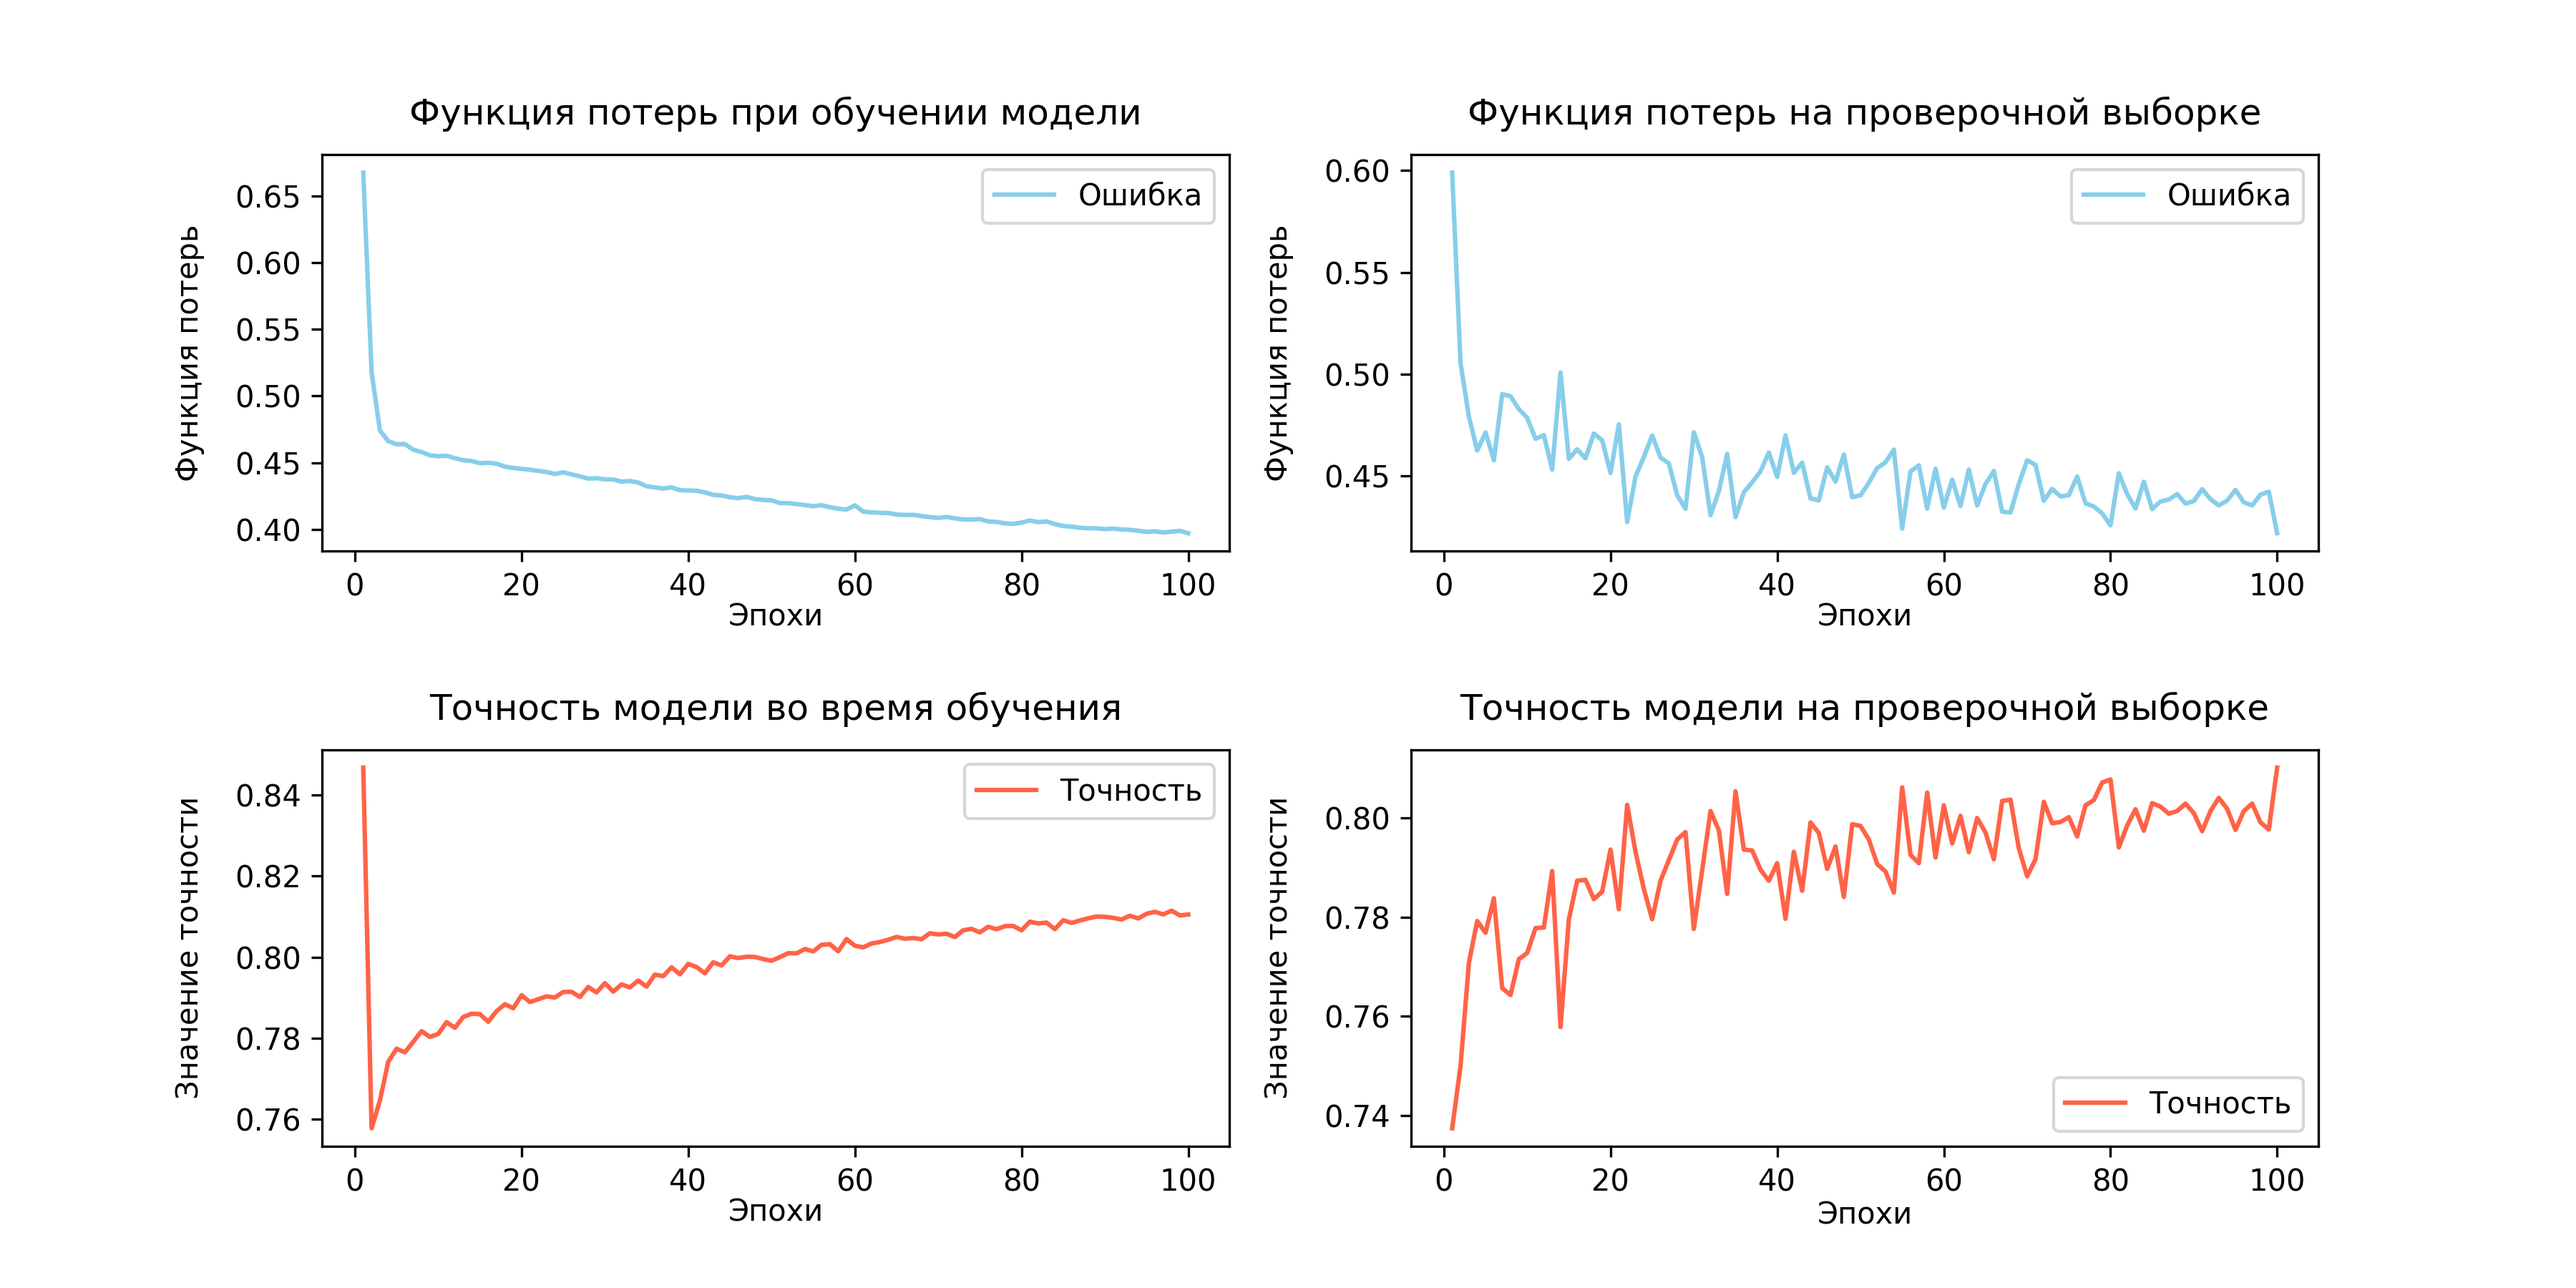
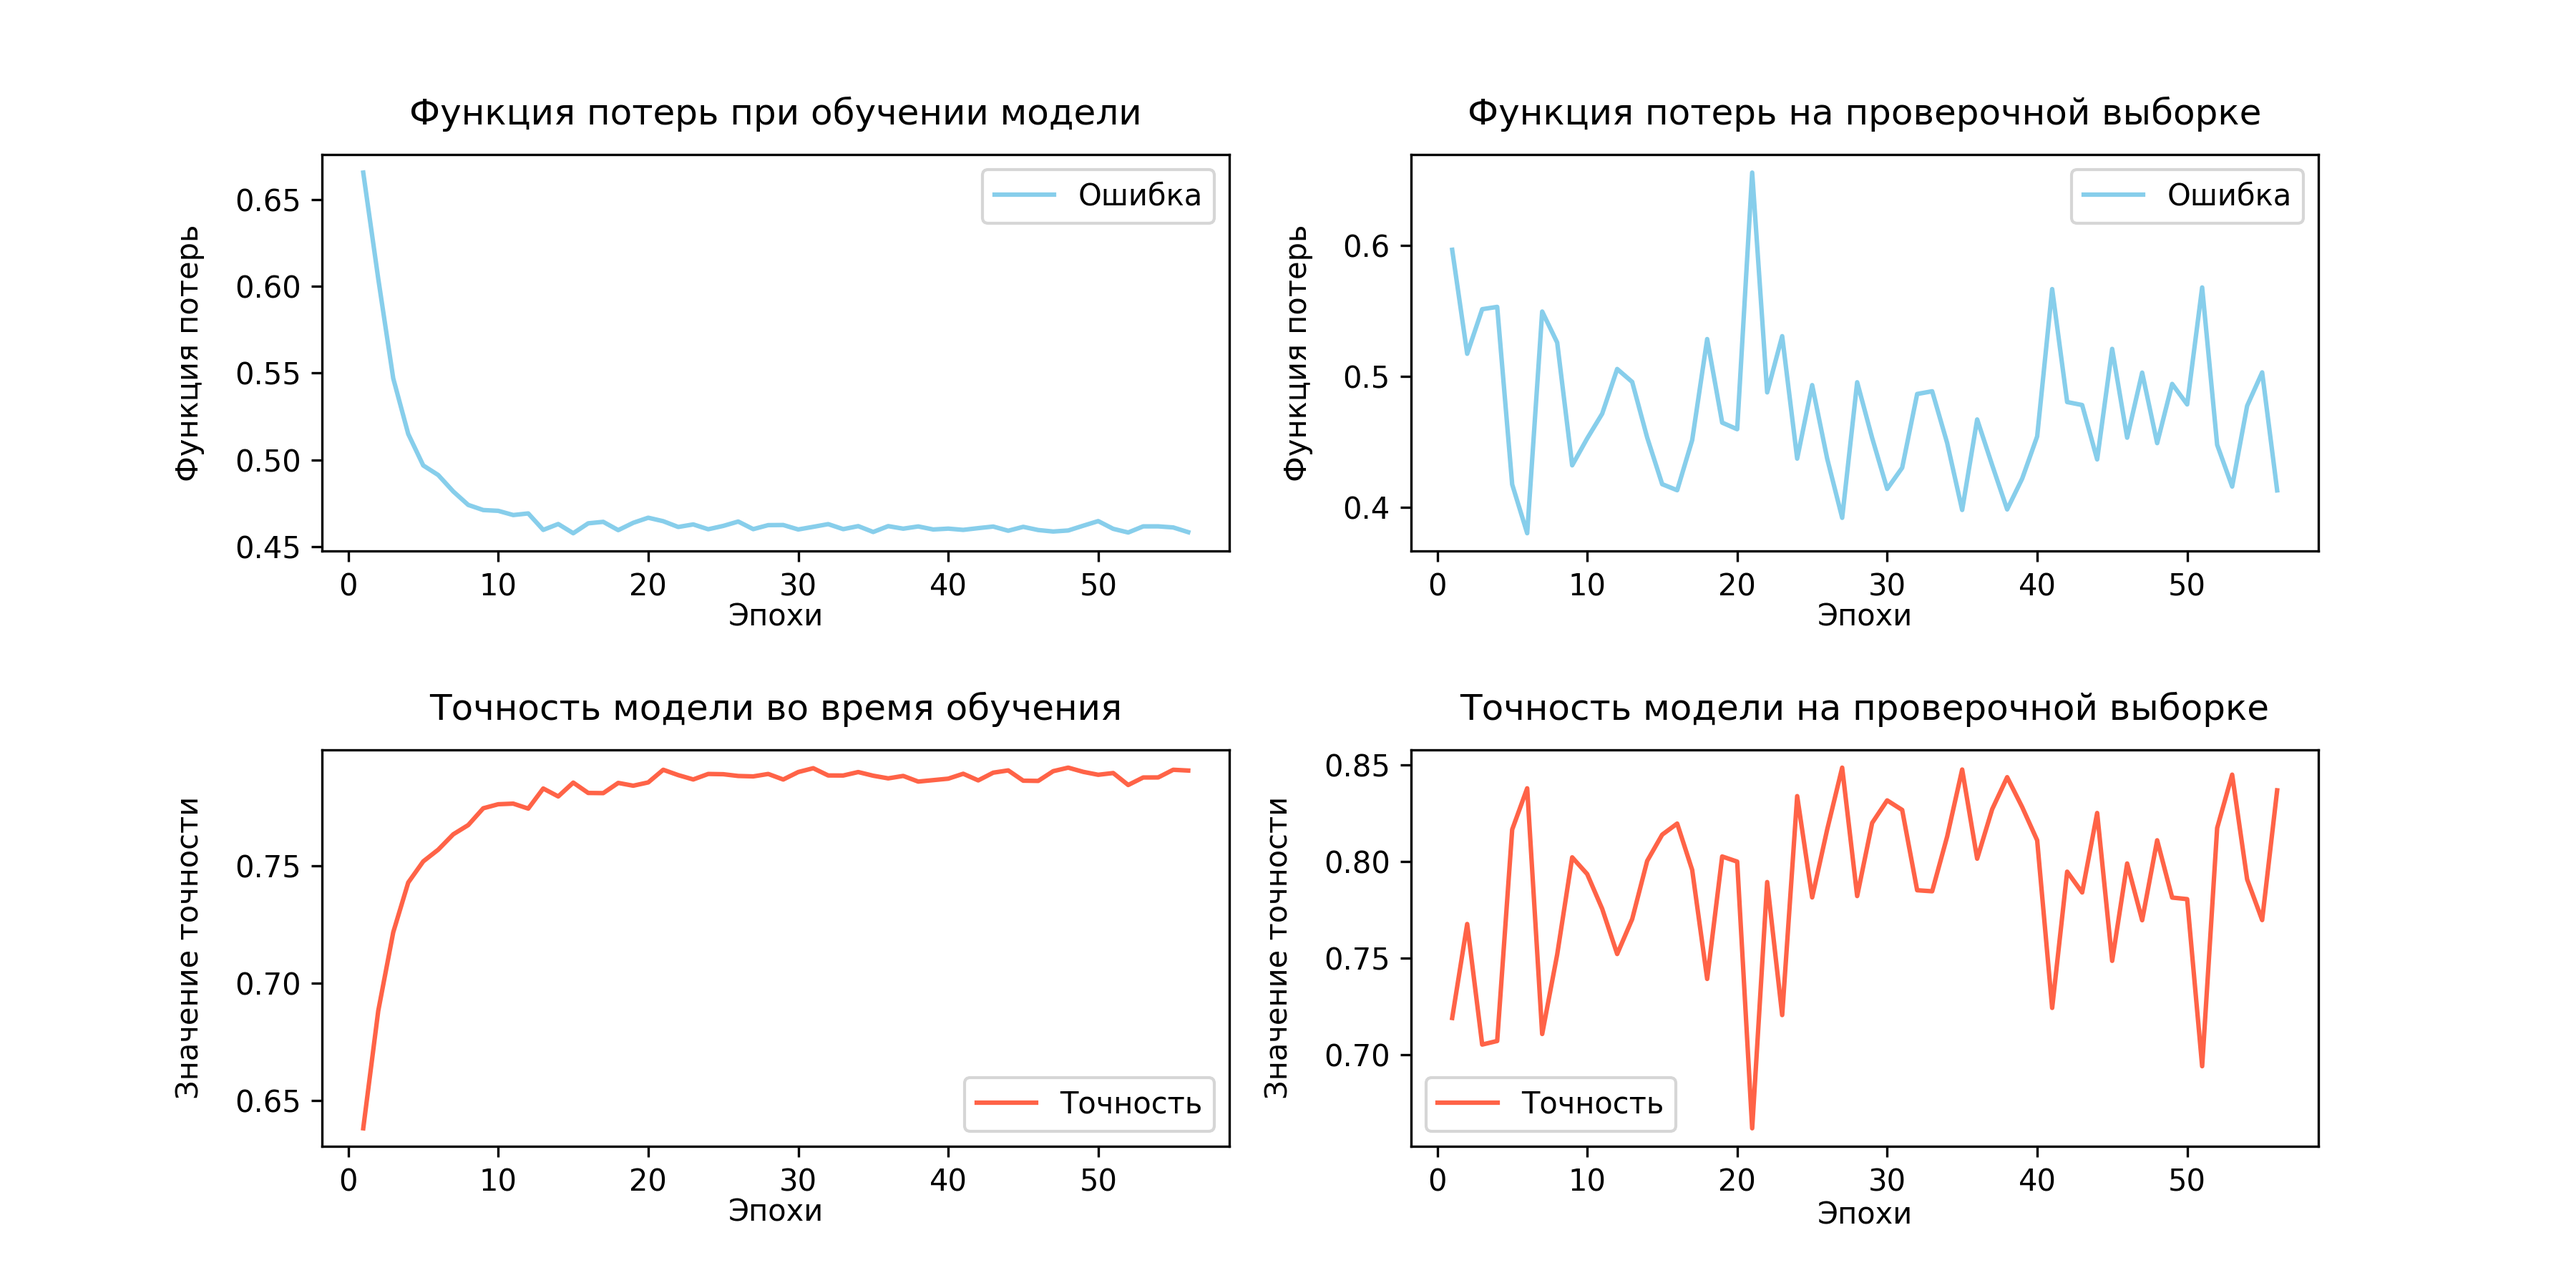
small refactor..

diff --git a/utils/callbacks.py b/utils/callbacks.py
@@ -1,25 +1,30 @@
 from keras.callbacks import EarlyStopping, ReduceLROnPlateau
 
-early_stopping = EarlyStopping(
-    monitor="val_loss",
-    min_delta=0,
-    patience=50,
-    verbose=1,
-    mode="auto",
-    baseline=None,
-    restore_best_weights=True,
-    start_from_epoch=0,
-)
 
-reduce_lr = ReduceLROnPlateau(
-    monitor="val_loss",
-    factor=0.9,
-    patience=20,
-    verbose=1,
-    mode="auto",
-    min_delta=0.0001,
-    cooldown=0,
-    min_lr=1e-6,
-)
+def early_stopping() -> EarlyStopping:
+    return EarlyStopping(
+        monitor="val_loss",
+        min_delta=0,
+        patience=50,
+        verbose=1,
+        mode="auto",
+        baseline=None,
+        restore_best_weights=True,
+        start_from_epoch=0,
+    )
+
+
+def reduce_lr() -> ReduceLROnPlateau:
+    return ReduceLROnPlateau(
+        monitor="val_loss",
+        factor=0.9,
+        patience=20,
+        verbose=1,
+        mode="auto",
+        min_delta=0.0001,
+        cooldown=0,
+        min_lr=1e-6,
+    )
+
 
 __all__ = ["early_stopping", "reduce_lr"]

diff --git a/utils/models.py b/utils/models.py
@@ -119,16 +119,16 @@ def create_ensemble_with_ple(
 ) -> Model:
     input = Input(shape=(n_features,))
 
-    # x = PiecewiseLinearTrainableEmbeddings(
-    #     bins=bins,
-    #     d_embedding=d_embedding,
-    #     linear=True,
-    #     linear_activation=True,
-    #     activation=True,
-    # )(input)
-    # x = Flatten()(x)
+    x = PiecewiseLinearTrainableEmbeddings(
+        bins=bins,
+        d_embedding=d_embedding,
+        linear=True,
+        linear_activation=True,
+        activation=True,
+    )(input)
+    x = Flatten()(x)
 
-    x = PiecewiseLinearEmbeddings(bins=bins)(input)
+    # x = PiecewiseLinearEmbeddings(bins=bins)(input)
     x = RepeatVector(k)(x)
     x = BatchEnsembleLayer(
         k=k,
@@ -176,7 +176,7 @@ def train_model(
         # validation_data=(x_test, y_test),
         shuffle=True,
         class_weight=class_weight,
-        callbacks=[early_stopping, reduce_lr],
+        callbacks=[early_stopping(), reduce_lr()],
     )
     if isSave:
         script_dir = os.path.dirname(os.path.abspath(__file__))

diff --git a/tuning_ple.py b/tuning_ple.py
@@ -28,15 +28,15 @@ targets = ["ferritin"]
 n_features = len(df.columns) - len(targets)
 print(f"{n_features=}")
 
-# k = 75
-# hidden_units = 90
-# n_bins = [5, 10, 12, 15, 20]
-# d_embedding = [5, 10, 15, 20, 30]
-
 k = 32
-hidden_units = 30
-n_bins = [10]
-d_embedding = [5]
+hidden_units = 50
+n_bins = [5, 10, 20]
+d_embedding = [5, 10, 20]
+
+# k = 32
+# hidden_units = 30
+# n_bins = [10]
+# d_embedding = [5]
 
 list_statistics = []
 
@@ -88,5 +88,5 @@ for n in n_bins:
         s["AUC"] = statistics["auc"]
         list_statistics.append(s)
 
-with open(f"./output/ple_ensembles/tuning_non-trainable.json", "w") as file:
+with open(f"./output/ple_ensembles/tuning_trainable.json", "w") as file:
     json.dump(list_statistics, file, ensure_ascii=False, indent=4)

diff --git a/launch_ple.py b/launch_ple.py
@@ -1,6 +1,6 @@
 import os
 
-os.environ["CUDA_VISIBLE_DEVICES"] = "-1"
+# os.environ["CUDA_VISIBLE_DEVICES"] = "-1"
 
 import pandas as pd
 from keras.utils import set_random_seed
@@ -24,15 +24,17 @@ print(df.shape)
 print(df.dtypes)
 
 targets = ["ferritin"]
+n_features = len(df.columns) - len(targets)
+print(f"{n_features=}")
 
 k = 32
-hidden_units = 30
-n_bins = 10
+hidden_units = 50
+n_bins = 30
 d_embedding = 5
 
 # set_random_seed(seed=42)
 class_weight, x_train, y_train, x_test, y_test = preparate_data(
-    df, targets, scale=False, seed=None
+    df, n_features, targets, scale=False, seed=None
 )
 bins = compute_bins(x_train, n_bins=n_bins)
 model = create_ensemble_with_ple(
